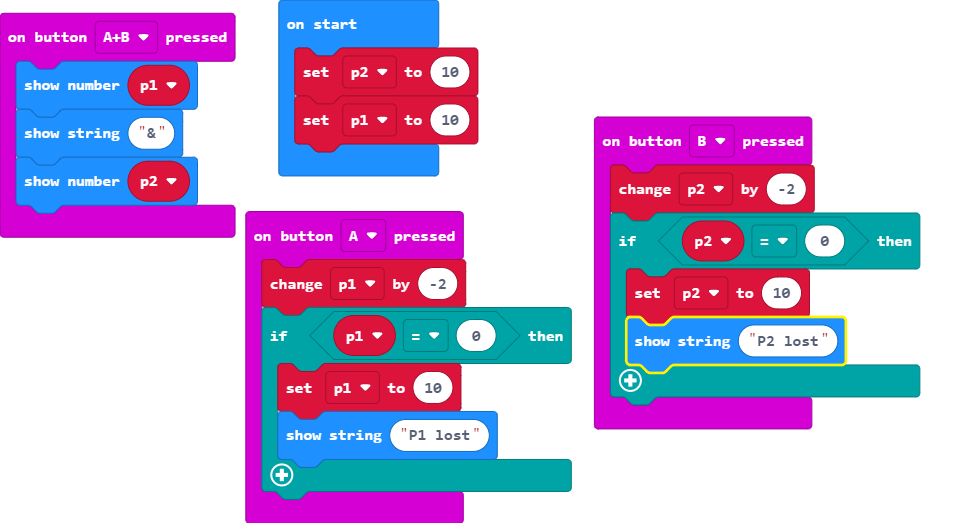
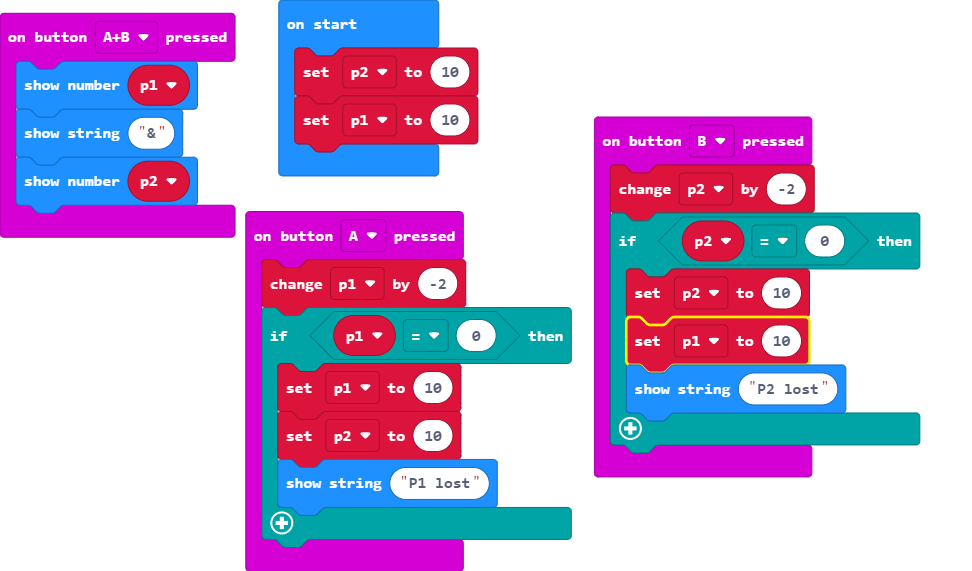
Update main.blocks, main.ts

Changed region(s): [[0.0, 0.0, 0.5864, 0.979], [0.6173, 0.1836, 0.9568, 0.8566], [0.2778, 0.0306, 0.4938, 0.3365]]

diff --git a/main.ts b/main.ts
@@ -2,6 +2,7 @@ input.onButtonPressed(Button.A, function () {
     p1 += -2
     if (p1 == 0) {
         p1 = 10
+        p2 = 10
         basic.showString("P1 lost")
     }
 })
@@ -14,6 +15,7 @@ input.onButtonPressed(Button.B, function () {
     p2 += -2
     if (p2 == 0) {
         p2 = 10
+        p1 = 10
         basic.showString("P2 lost")
     }
 })
